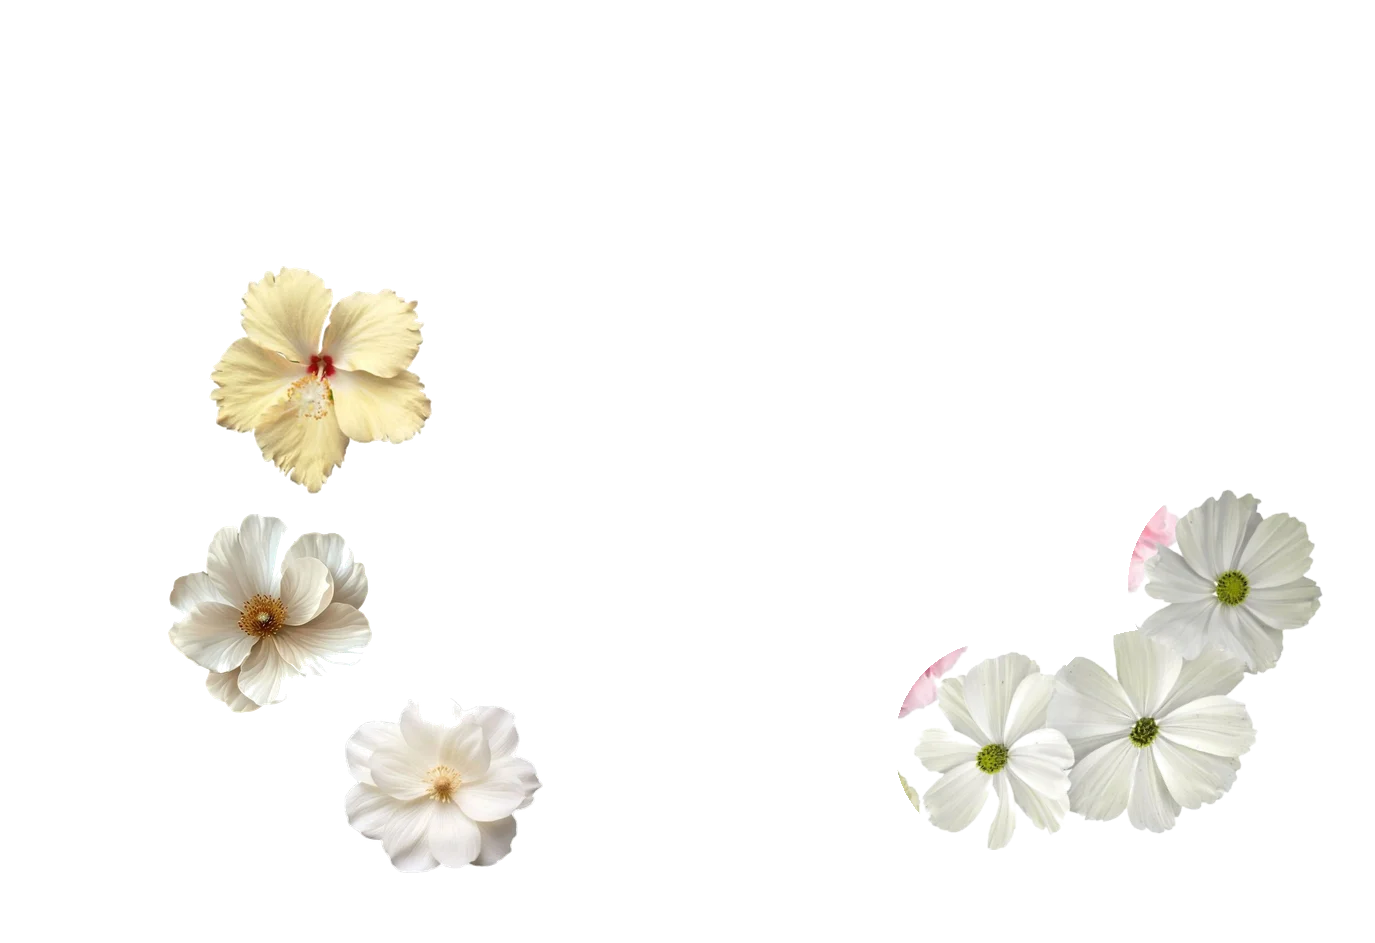
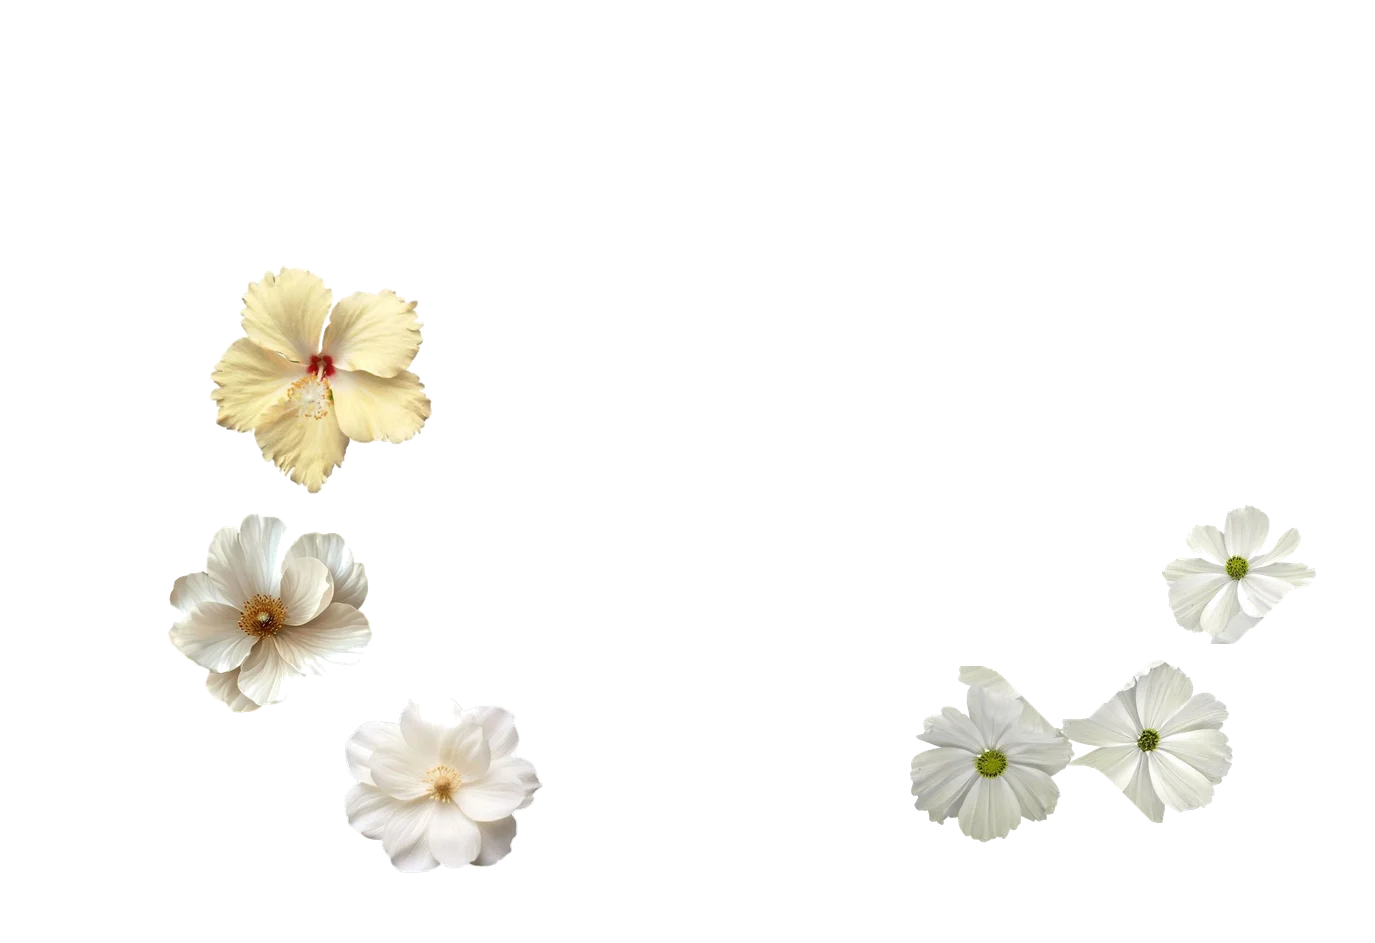
Krásenky navrchu z výstřižku a šipka jako vlastní vrstva
Krásenky se dosud braly z věnce kruhem, takže si s sebou vzaly kus sousedního
karafiátu a měkký okraj, kterým prosvítala obálka. Teď jsou z výstřižku jako
zbytek: rozdělit ho jde podle žlutozelených středů květů, které jsou tři,
daleko od sebe a jinde v okvětních lístcích se taková barva nevyskytuje.
Odleptávat je od sebe nešlo, do sebe zasahují skoro půlkou květu.

Šipka byla uvnitř obálky, a ta má vlastní kontext vrstvení — květiny ležící
na obálce ji překrývaly a z popisku zbyly dvě písmena. Je proto samostatnou
vrstvou scény nad věncem i obálkou, menší a natočená k hornímu rohu obálky.

Changed region(s): [[0.6415, 0.5228, 0.9775, 0.9226]]

diff --git a/app/page.tsx b/app/page.tsx
@@ -637,22 +637,6 @@ function ObalkaPribeh({ children }: { children: React.ReactNode }) {
         {/* Popisek jen u otevřené obálky. Zavřené ukazuje cestu šipka. */}
         {otevrena && <span className="obalka-popisek">Zavřít</span>}
       </button>
-      {/* Šipka s popiskem vedle zavřené obálky. Text jde po oblouku, aby se
-          šipky držel — proto svg s textPath, ne obyčejný odstavec pod ní.
-          Jakmile se obálka otevře, obojí zmizí: host už ví, na co klepnout. */}
-      <span className="obalka-navod" aria-hidden="true">
-        <img className="obalka-navod-sipka" src="/obalka/sipka.webp" alt="" />
-        <svg className="obalka-navod-text" viewBox="0 0 200 96" focusable="false">
-          {/* Dráha je oblouk prohnutý dolů — písmo po něm sedí jako v podpisu
-              pod kresbou a drží se zakřivení šipky nad sebou. */}
-          <path id="obalka-navod-drah" d="M 6 26 C 48 96, 152 96, 194 26" fill="none" />
-          <text>
-            <textPath href="#obalka-navod-drah" startOffset="50%" textAnchor="middle">
-              klikni
-            </textPath>
-          </text>
-        </svg>
-      </span>
     </div>
   );
 }
@@ -794,6 +778,23 @@ export default function Home() {
       <section className="story" id="story">
         <Reveal className="story-grid">
           <KvetinyScena />
+          {/* Šipka s popiskem ke zavřené obálce. Je to samostatná vrstva scény,
+              ne součást obálky: uvnitř ní by ji překryly květiny, které na
+              obálce leží, protože obálka má vlastní kontext vrstvení a její
+              potomci se nad ně nedostanou. */}
+          <span className="obalka-navod" aria-hidden="true">
+            <img className="obalka-navod-sipka" src="/obalka/sipka.webp" alt="" />
+            <svg className="obalka-navod-text" viewBox="0 0 200 96" focusable="false">
+              {/* Dráha je oblouk prohnutý dolů — písmo po něm sedí jako podpis
+                  pod kresbou a drží se zakřivení šipky nad sebou. */}
+              <path id="obalka-navod-drah" d="M 6 26 C 48 96, 152 96, 194 26" fill="none" />
+              <text>
+                <textPath href="#obalka-navod-drah" startOffset="50%" textAnchor="middle">
+                  klikni
+                </textPath>
+              </text>
+            </svg>
+          </span>
           <div className="story-photo">
             <FotoHromadka />
           </div>

diff --git a/app/globals.css b/app/globals.css
@@ -2177,22 +2177,33 @@ body,
    Popisek je psaný po oblouku přes textPath, ne obyčejným odstavcem pod
    obrázkem — rovný řádek pod zahnutou šipkou vypadal, jako by k ní nepatřil. */
 .obalka-navod {
-  position: absolute; left: 100%; top: 2%;
-  width: 17%;
-  margin-left: -5%;
+  /* Umístěná vůči středu scény, protože leží mimo obálku: rozměry i posun jsou
+     v dílech skupiny fotek s obálkou, takže drží při každé šířce okna. */
+  --skupina: calc(var(--foto-sirka) + var(--obalka-sirka) - var(--prekryv));
+  position: absolute; left: 50%; top: 50%;
+  width: calc(var(--skupina) * .135);
+  translate: calc(var(--skupina) * .55) calc(var(--skupina) * -.26);
+  /* Nad věncem i obálkou — je to pokyn hostovi, nesmí zmizet pod okvětním
+     lístkem. */
+  z-index: 7;
   pointer-events: none;
   display: flex; flex-direction: column; align-items: center;
-  /* Obálka je natočená o 7°, šipka se s ní natáčí taky — tenhle úhel ji vrátí
-     zpátky do svislice, aby mířila na pečeť a ne mimo. */
-  rotate: -7deg;
   transition: opacity .5s ease;
 }
-.obalka.je-otevrena .obalka-navod { opacity: 0; }
-.obalka-navod-sipka { width: 100%; height: auto; display: block; }
+.story-grid:has(.obalka.je-otevrena) .obalka-navod { opacity: 0; }
+/* Šipka leží skoro naplocho, aby mířila na horní roh obálky a ne kolmo dolů —
+   svisle postavená ukazovala mimo a zabírala dvakrát tolik výšky. */
+.obalka-navod-sipka {
+  width: 100%; height: auto; display: block;
+  rotate: -40deg;
+  /* Otočení nemění místo v rozvržení, takže by pod šipkou zůstala díra vysoká
+     jako nerotovaný obrázek. Tenhle posun ji zase zavře. */
+  margin-bottom: -26%;
+}
 /* Popisek je širší než šipka a písmo v poměru k ní velké: pod drobnou kresbou
    se malý nápis ztrácel. Rozměr řídí viewBox, takže se škáluje spolu se šipkou. */
 .obalka-navod-text {
-  width: 210%; height: auto; margin-top: -4%;
+  width: 190%; height: auto; margin-top: 4%;
   fill: #b09672;
   font-family: var(--rukopis), "Segoe Script", cursive;
   font-size: 44px; letter-spacing: .04em;
